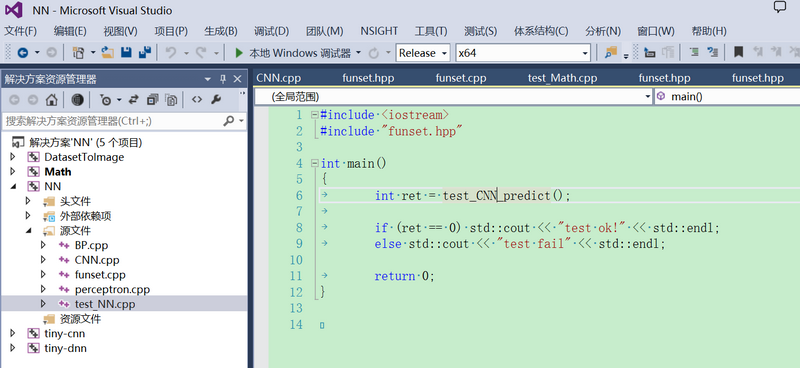
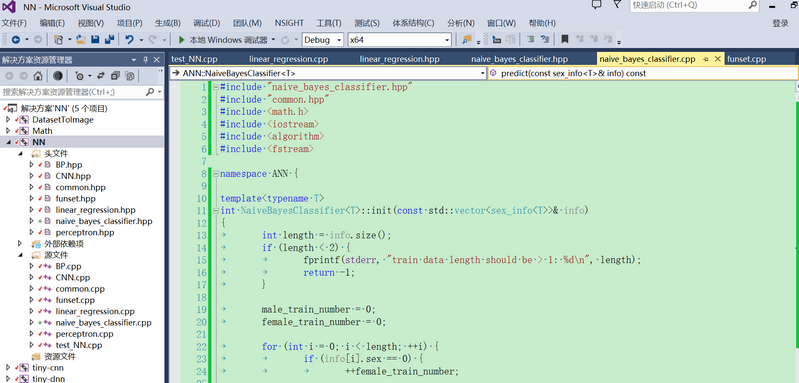
Add naive bayes classifier test code(sex classification)

diff --git a/src/NN/naive_bayes_classifier.cpp b/src/NN/naive_bayes_classifier.cpp
@@ -1,0 +1,196 @@
+#include "naive_bayes_classifier.hpp"
+#include "common.hpp"
+#include <math.h>
+#include <iostream>
+#include <algorithm>
+#include <fstream>
+
+namespace ANN {
+
+template<typename T>
+int NaiveBayesClassifier<T>::init(const std::vector<sex_info<T>>& info)
+{
+	int length = info.size();
+	if (length < 2) {
+		fprintf(stderr, "train data length should be > 1: %d\n", length);
+		return -1;
+	}
+
+	male_train_number = 0;
+	female_train_number = 0;
+
+	for (int i = 0; i < length; ++i) {
+		if (info[i].sex == 0) {
+			++female_train_number;
+
+			female_height.push_back(info[i].height);
+			female_weight.push_back(info[i].weight);
+			female_foot_size.push_back(info[i].foot_size);
+
+		} else {
+			++male_train_number;
+
+			male_height.push_back(info[i].height);
+			male_weight.push_back(info[i].weight);
+			male_foot_size.push_back(info[i].foot_size);
+		}
+	}
+
+	male_p = (T)male_train_number / (male_train_number + female_train_number);
+	female_p = (T)female_train_number / (male_train_number + female_train_number);
+
+	return 0;
+}
+
+template<typename T>
+int NaiveBayesClassifier<T>::train(const std::string& model)
+{
+	std::tuple<T, T> mean_variance;
+
+	calc_mean_variance(male_height, mean_variance);
+	male_mv.mean_height = std::get<0>(mean_variance);
+	male_mv.variance_height = std::get<1>(mean_variance);
+
+	calc_mean_variance(male_weight, mean_variance);
+	male_mv.mean_weight = std::get<0>(mean_variance);
+	male_mv.variance_weight = std::get<1>(mean_variance);
+
+	calc_mean_variance(male_foot_size, mean_variance);
+	male_mv.mean_foot_size = std::get<0>(mean_variance);
+	male_mv.variance_foot_size = std::get<1>(mean_variance);
+
+	calc_mean_variance(female_height, mean_variance);
+	female_mv.mean_height = std::get<0>(mean_variance);
+	female_mv.variance_height = std::get<1>(mean_variance);
+
+	calc_mean_variance(female_weight, mean_variance);
+	female_mv.mean_weight = std::get<0>(mean_variance);
+	female_mv.variance_weight = std::get<1>(mean_variance);
+
+	calc_mean_variance(female_foot_size, mean_variance);
+	female_mv.mean_foot_size = std::get<0>(mean_variance);
+	female_mv.variance_foot_size = std::get<1>(mean_variance);
+
+	CHECK(store_model(model) == 0);
+
+	return 0;
+}
+
+template<typename T>
+int NaiveBayesClassifier<T>::store_model(const std::string& model) const
+{
+	std::ofstream file;
+	file.open(model.c_str(), std::ios::binary);
+	if (!file.is_open()) {
+		fprintf(stderr, "open file fail: %s\n", model.c_str());
+		return -1;
+	}
+
+	file.write((char*)&male_p, sizeof(male_p));
+	file.write((char*)&male_mv.mean_height, sizeof(male_mv.mean_height));
+	file.write((char*)&male_mv.mean_weight, sizeof(male_mv.mean_weight));
+	file.write((char*)&male_mv.mean_foot_size, sizeof(male_mv.mean_foot_size));
+	file.write((char*)&male_mv.variance_height, sizeof(male_mv.variance_height));
+	file.write((char*)&male_mv.variance_weight, sizeof(male_mv.variance_weight));
+	file.write((char*)&male_mv.variance_foot_size, sizeof(male_mv.variance_foot_size));
+
+	file.write((char*)&female_p, sizeof(female_p));
+	file.write((char*)&female_mv.mean_height, sizeof(female_mv.mean_height));
+	file.write((char*)&female_mv.mean_weight, sizeof(female_mv.mean_weight));
+	file.write((char*)&female_mv.mean_foot_size, sizeof(female_mv.mean_foot_size));
+	file.write((char*)&female_mv.variance_height, sizeof(female_mv.variance_height));
+	file.write((char*)&female_mv.variance_weight, sizeof(female_mv.variance_weight));
+	file.write((char*)&female_mv.variance_foot_size, sizeof(female_mv.variance_foot_size));
+
+	file.close();
+
+	return 0;
+}
+
+template<typename T>
+int NaiveBayesClassifier<T>::predict(const sex_info<T>& info) const
+{
+	T male_height_p = calc_attribute_probability(info.height, male_mv.mean_height, male_mv.variance_height);
+	T male_weight_p = calc_attribute_probability(info.weight, male_mv.mean_weight, male_mv.variance_weight);
+	T male_foot_size_p = calc_attribute_probability(info.foot_size, male_mv.mean_foot_size, male_mv.variance_foot_size);
+
+	T female_height_p = calc_attribute_probability(info.height, female_mv.mean_height, female_mv.variance_height);
+	T female_weight_p = calc_attribute_probability(info.weight, female_mv.mean_weight, female_mv.variance_weight);
+	T female_foot_size_p = calc_attribute_probability(info.foot_size, female_mv.mean_foot_size, female_mv.variance_foot_size);
+
+	T evidence = male_p * male_height_p * male_weight_p * male_foot_size_p +
+		female_p * female_height_p * female_weight_p * female_foot_size_p;
+
+	T male_posterior = male_p * male_height_p * male_weight_p * male_foot_size_p /*/ evidence*/;
+	T female_posterior = female_p * female_height_p * female_weight_p * female_foot_size_p /*/ evidence*/;
+
+	fprintf(stdout, "male posterior probability: %e, female posterior probability: %e\n",
+		male_posterior, female_posterior);
+
+	if (male_posterior > female_posterior) return 1;
+	else return 0;
+}
+
+template<typename T>
+T NaiveBayesClassifier<T>::calc_attribute_probability(T value, T mean, T variance) const
+{
+	return (T)1 / std::sqrt(2 * PI * variance) * std::exp(-std::pow(value - mean, 2) / (2 * variance));
+}
+
+template<typename T>
+int NaiveBayesClassifier<T>::load_model(const std::string& model) const
+{
+	std::ifstream file;
+	file.open(model.c_str(), std::ios::binary);
+	if (!file.is_open()) {
+		fprintf(stderr, "open file fail: %s\n", model.c_str());
+		return -1;
+	}
+
+	file.read((char*)&male_p, sizeof(male_p) * 1);
+	file.read((char*)&male_mv.mean_height, sizeof(male_mv.mean_height) * 1);
+	file.read((char*)&male_mv.mean_weight, sizeof(male_mv.mean_weight) * 1);
+	file.read((char*)&male_mv.mean_foot_size, sizeof(male_mv.mean_foot_size) * 1);
+	file.read((char*)&male_mv.variance_height, sizeof(male_mv.variance_height) * 1);
+	file.read((char*)&male_mv.variance_weight, sizeof(male_mv.variance_weight) * 1);
+	file.read((char*)&male_mv.variance_foot_size, sizeof(male_mv.variance_foot_size) * 1);
+
+	file.read((char*)&female_p, sizeof(female_p)* 1);
+	file.read((char*)&female_mv.mean_height, sizeof(female_mv.mean_height) * 1);
+	file.read((char*)&female_mv.mean_weight, sizeof(female_mv.mean_weight) * 1);
+	file.read((char*)&female_mv.mean_foot_size, sizeof(female_mv.mean_foot_size) * 1);
+	file.read((char*)&female_mv.variance_height, sizeof(female_mv.variance_height) * 1);
+	file.read((char*)&female_mv.variance_weight, sizeof(female_mv.variance_weight) * 1);
+	file.read((char*)&female_mv.variance_foot_size, sizeof(female_mv.variance_foot_size) * 1);
+
+	file.close();
+
+	return 0;
+}
+
+template<typename T>
+void NaiveBayesClassifier<T>::calc_mean_variance(const std::vector<T>& data, std::tuple<T, T>& mean_variance) const
+{
+	T sum{ 0 }, sqsum{ 0 };
+
+	for (int i = 0; i < data.size(); ++i) {
+		sum += data[i];
+	}
+
+	T mean = sum / data.size();
+
+	for (int i = 0; i < data.size(); ++i) {
+		sqsum += std::pow(data[i] - mean, 2);
+	}
+
+	// unbiased sample variances
+	T variance = sqsum / (data.size() - 1);
+
+	std::get<0>(mean_variance) = mean;
+	std::get<1>(mean_variance) = variance;
+}
+
+template class NaiveBayesClassifier<float>;
+template class NaiveBayesClassifier<double>;
+
+} // namespace ANN

diff --git a/demo/NN/funset.cpp b/demo/NN/funset.cpp
@@ -4,8 +4,58 @@
 #include "BP.hpp""
 #include "CNN.hpp"
 #include "linear_regression.hpp"
+#include "naive_bayes_classifier.hpp"
 #include "common.hpp"
 #include <opencv2/opencv.hpp>
+
+// ================================ naive bayes classifier =====================
+int test_naive_bayes_classifier_train()
+{
+	std::vector<ANN::sex_info<float>> info;
+	info.push_back({ 6.f, 180.f, 12.f, 1 });
+	info.push_back({5.92f, 190.f, 11.f, 1});
+	info.push_back({5.58f, 170.f, 12.f, 1});
+	info.push_back({5.92f, 165.f, 10.f, 1});
+	info.push_back({ 5.f, 100.f, 6.f, 0 });
+	info.push_back({5.5f, 150.f, 8.f, 0});
+	info.push_back({5.42f, 130.f, 7.f, 0});
+	info.push_back({5.75f, 150.f, 9.f, 0});
+
+	ANN::NaiveBayesClassifier<float> naive_bayes;
+	int ret = naive_bayes.init(info);
+	if (ret != 0) {
+		fprintf(stderr, "naive bayes classifier init fail: %d\n", ret);
+		return -1;
+	}
+
+	const std::string model{ "E:/GitCode/NN_Test/data/naive_bayes_classifier.model" };
+	ret = naive_bayes.train(model);
+	if (ret != 0) {
+		fprintf(stderr, "naive bayes classifier train fail: %d\n", ret);
+		return -1;
+	}
+
+	return 0;
+}
+
+int test_naive_bayes_classifier_predict()
+{
+	ANN::sex_info<float> info = { 6.0f, 130.f, 8.f, -1 };
+
+	ANN::NaiveBayesClassifier<float> naive_bayes;
+	const std::string model{ "E:/GitCode/NN_Test/data/naive_bayes_classifier.model" };
+	int ret = naive_bayes.load_model(model);
+	if (ret != 0) {
+		fprintf(stderr, "load naive bayes classifier model fail: %d\n", ret);
+		return -1;
+	}
+
+	ret = naive_bayes.predict(info);
+	if (ret == 0) fprintf(stdout, "It is a female\n");
+	else fprintf(stdout, "It is a male\n");
+
+	return 0;
+}
 
 // ============================ linear regression =============================
 int test_linear_regression_train()

diff --git a/src/NN/naive_bayes_classifier.hpp b/src/NN/naive_bayes_classifier.hpp
@@ -1,0 +1,53 @@
+#ifndef FBC_NN_NAIVEBAYESCLASSIFIER_HPP_
+#define FBC_NN_NAIVEBAYESCLASSIFIER_HPP_
+
+#include <vector>
+#include <tuple>
+
+namespace ANN {
+
+template<typename T>
+struct sex_info { // height, weight, foot size, sex
+	T height;
+	T weight;
+	T foot_size;
+	int sex; // -1: unspecified, 0: female, 1: male
+};
+
+template<typename T>
+struct MeanVariance { // height/weight/foot_size's mean and variance
+	T mean_height;
+	T mean_weight;
+	T mean_foot_size;
+	T variance_height;
+	T variance_weight;
+	T variance_foot_size;
+};
+
+// Gaussian naive Bayes
+template<typename T>
+class NaiveBayesClassifier {
+public:
+	NaiveBayesClassifier() = default;
+	int init(const std::vector<sex_info<T>>& info);
+	int train(const std::string& model);
+	int predict(const sex_info<T>& info) const;
+	int load_model(const std::string& model) const;
+
+private:
+	void calc_mean_variance(const std::vector<T>& data, std::tuple<T, T>& mean_variance) const;
+	T calc_attribute_probability(T value, T mean, T variance) const;
+	int store_model(const std::string& model) const;
+
+	MeanVariance<T> male_mv, female_mv;
+	std::vector<T> male_height, male_weight, male_foot_size;
+	std::vector<T> female_height, female_weight, female_foot_size;
+	T male_p = (T)0.5;
+	T female_p = (T)0.5;
+	int male_train_number = 0;
+	int female_train_number = 0;
+};
+
+} // namespace ANN
+
+#endif // FBC_NN_NAIVEBAYESCLASSIFIER_HPP_

diff --git a/demo/NN/funset.hpp b/demo/NN/funset.hpp
@@ -8,5 +8,7 @@ int test_CNN_train();
 int test_CNN_predict();
 int test_linear_regression_train();
 int test_linear_regression_predict();
+int test_naive_bayes_classifier_train();
+int test_naive_bayes_classifier_predict();
 
 #endif // FBC_TEST_NN_FUNSET_HPP_

diff --git a/demo/NN/test_NN.cpp b/demo/NN/test_NN.cpp
@@ -3,7 +3,7 @@
 
 int main()
 {
-	int ret = test_linear_regression_predict();
+	int ret = test_naive_bayes_classifier_predict();
 	
 	if (ret == 0) std::cout << "===== test ok =====" << std::endl;
 	else std::cout << "##### test fail #####" << std::endl;

diff --git a/src/NN/common.hpp b/src/NN/common.hpp
@@ -1,6 +1,8 @@
 #ifndef NN_COMMON_HPP_
 #define NN_COMMON_HPP_
 
+#define PI 3.14159265358979323846
+
 #define CHECK(x) { \
 	if (x) {} \
 	else { fprintf(stderr, "Check Failed: %s, file: %s, line: %d\n", #x, __FILE__, __LINE__); return -1; } \

diff --git a/README.md b/README.md
@@ -5,6 +5,7 @@
 	- BP(Back Propagation)
 	- CNN(Convolutional Neural Networks)
 	- linear regression(gradient descent、least squares)
+	- naive bayes classifier(sex classification)
 	- tiny-cnn's usage [GitHub](https://github.com/nyanp/tiny-cnn)
 	- tiny-dnn's usage [GitHub](https://github.com/tiny-dnn/tiny-dnn)
 - mathematical formula's implement with C++
